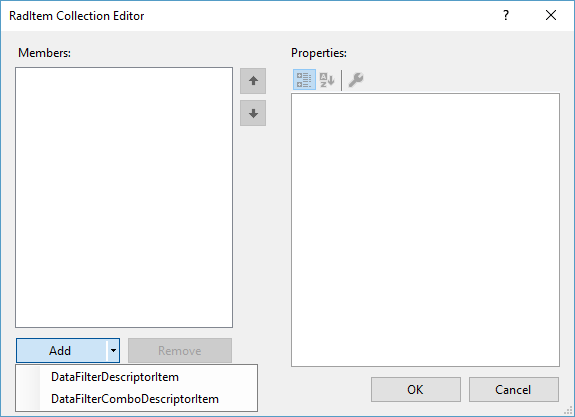
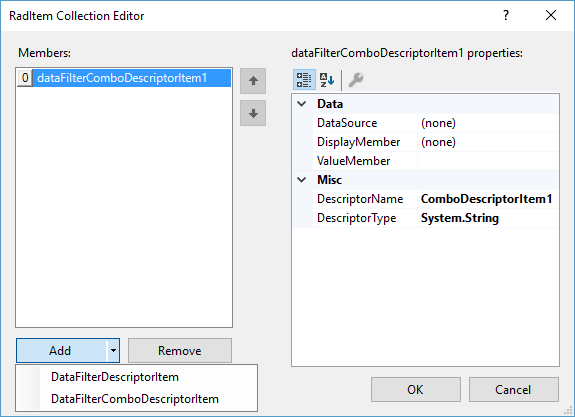
Updating descriptors items article.

diff --git a/datafilter/working-with-descriptor-items/descriptor-items.md b/datafilter/working-with-descriptor-items/descriptor-items.md
@@ -1,0 +1,89 @@
+---
+title: Descriptor Items
+page_title: Descriptor Items | RadDataFilter
+description: RadDataFilter allows you to build complex filter expressions based on the data and collection type of the source fields. 
+slug: winforms/datafilter/populating-with-data/descriptor-items
+tags: data, filter, items
+published: True
+position: 0
+---
+
+# Descriptor items
+
+There are two item types that are currently supported
+
+* __DataFilterDescriptorItem:__ The default item that uses filer value editor according to the data type of the filter field.
+* __DataFilterComboDescriptorItem:__ Uses a RadDropDownList for setting the filter value and allows the user to choose from a predefined set of values. 
+
+## Common Properties
+
+This section shows the common descriptor items properties.
+
+|Property|Description|
+|---|---|
+|__DefaultValue__|This value will be used as filter value when a new descriptor is added.|
+|__FilterOperators__|Gives you access to the list of the available filter operators.|
+|__DefaultFilterOperator__|Set the filter operator of a newly added descriptor.|
+|__DescriptorName__|Gets or sets the name of the descriptor|
+|__DescriptorType__|Indicates the data type used for this descriptor.|
+
+The following article shows how you can manually add __DataFilterDescriptorItem__: [Unbound Mode]({%slug winforms/datafilter/populating-with-data/unbound-mode%})
+
+
+# DataFilterComboDescriptorItem
+
+This item is auto-generated only if the data type of the underling field is of type "enum". If you want to use such item for a other data field you need to add it manually. This can be achieved at design time or by adding the item in the code. In both cases you need to specify the fooling properties:
+
+* __DataSoure:__ The source for the items displayed in the RadDropDownList.
+* __DisplayMemeber:__ The field whose values should be displayed in the RadDropDownList.
+* __ValueMember:__ The field whose values should be used for the filter expression.
+
+### Adding DataFilterComboDescriptorItem at design time
+
+The *RadItem Collection Editor* that allows you to edit the items at design time can be shown either via the **Smart Tag** or by the **Descriptors** property in the *Properties* section in Visual Studio. It allows you add/remove/modify the items.  
+
+>caption Figure 1: Adding DataFilterComboDescriptorItem at design time
+
+![datafilter-combo-descriptor-item 001](images/datafilter-combo-descriptor-item001.png)
+
+### Adding DataFilterComboDescriptorItem programmatically
+
+The following snippet shows how you can add __DataFilterComboDescriptorItem__ in the code:
+
+{{source=..\SamplesCS\DataFilter\DataFilterEditing.cs region=AddComboItem}} 
+{{source=..\SamplesVB\DataFilter\DataFilterEditing.vb region=AddComboItem}}
+````C#
+DataFilterComboDescriptorItem item1 = new DataFilterComboDescriptorItem();
+item1.DescriptorName = "Item Type";
+item1.DataSource = GetTable();
+item1.ValueMember = "ID";
+item1.DisplayMember = "Type";
+item1.DropDownStyle = RadDropDownStyle.DropDown;
+item1.AutoCompleteMode = AutoCompleteMode.Suggest;
+radDataFilter1.Descriptors.Add(item1);
+
+````
+````VB.NET
+Dim item1 As New DataFilterComboDescriptorItem()
+item1.DescriptorName = "Item Type"
+item1.DataSource = GetTable()
+item1.ValueMember = "ID"
+item1.DisplayMember = "Type"
+item1.DropDownStyle = RadDropDownStyle.DropDown
+item1.AutoCompleteMode = AutoCompleteMode.Suggest
+RadDataFilter1.Descriptors.Add(item1)
+
+````
+
+
+{{endregion}}
+
+When this is done you can add new expression item and choose from the list:
+
+>caption Figure 2: DataFilterComboDescriptorItem at runtime.
+
+![datafilter-combo-descriptor-item 002](images/datafilter-combo-descriptor-item002.png)
+
+# See Also
+
+* []({%slug winforms/datafilter/populating-with-data/data-binding%})

diff --git a/datafilter/working-with-descriptor-items/unbound-mode.md b/datafilter/working-with-descriptor-items/unbound-mode.md
@@ -5,7 +5,7 @@ description: RadDataFilter allows you to build complex filter expressions based 
 slug: winforms/datafilter/populating-with-data/unbound-mode
 tags: data, filter
 published: True
-position: 0
+position: 2
 ---
 
 # Unbound Mode
